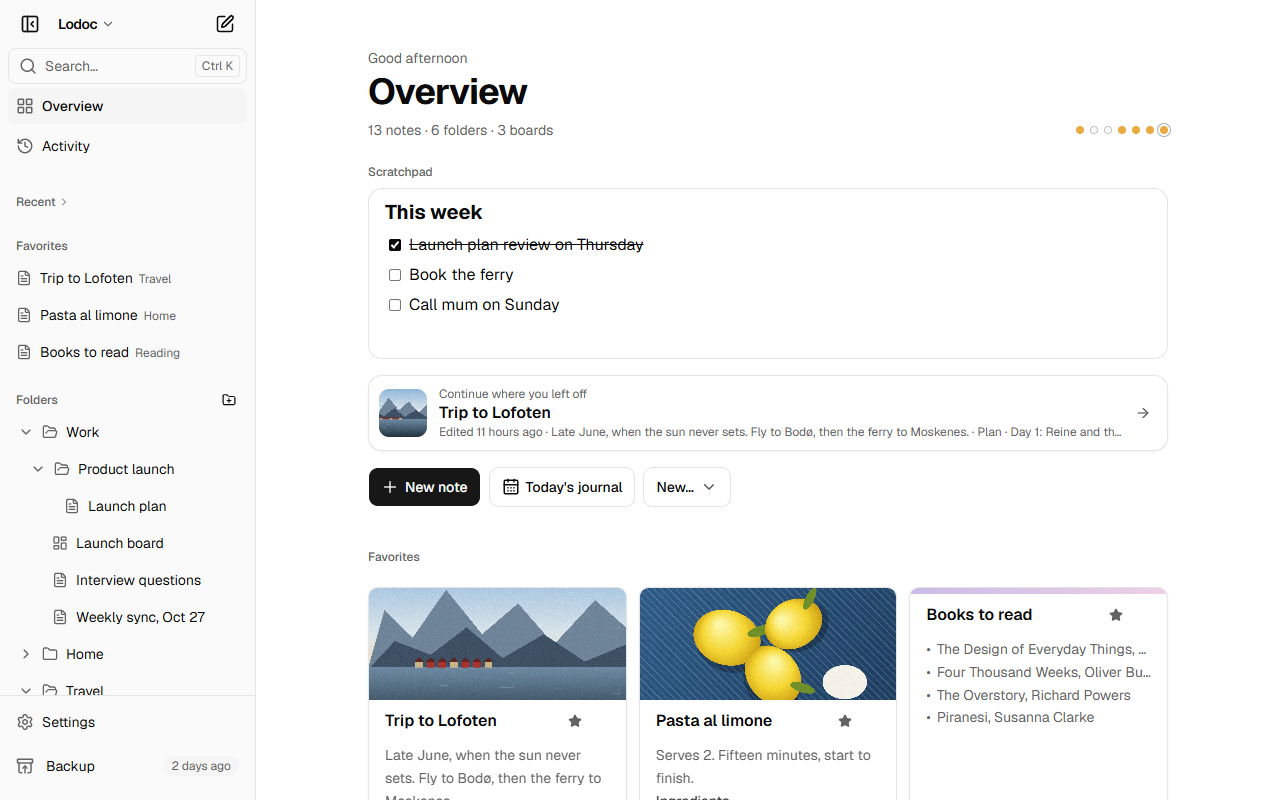
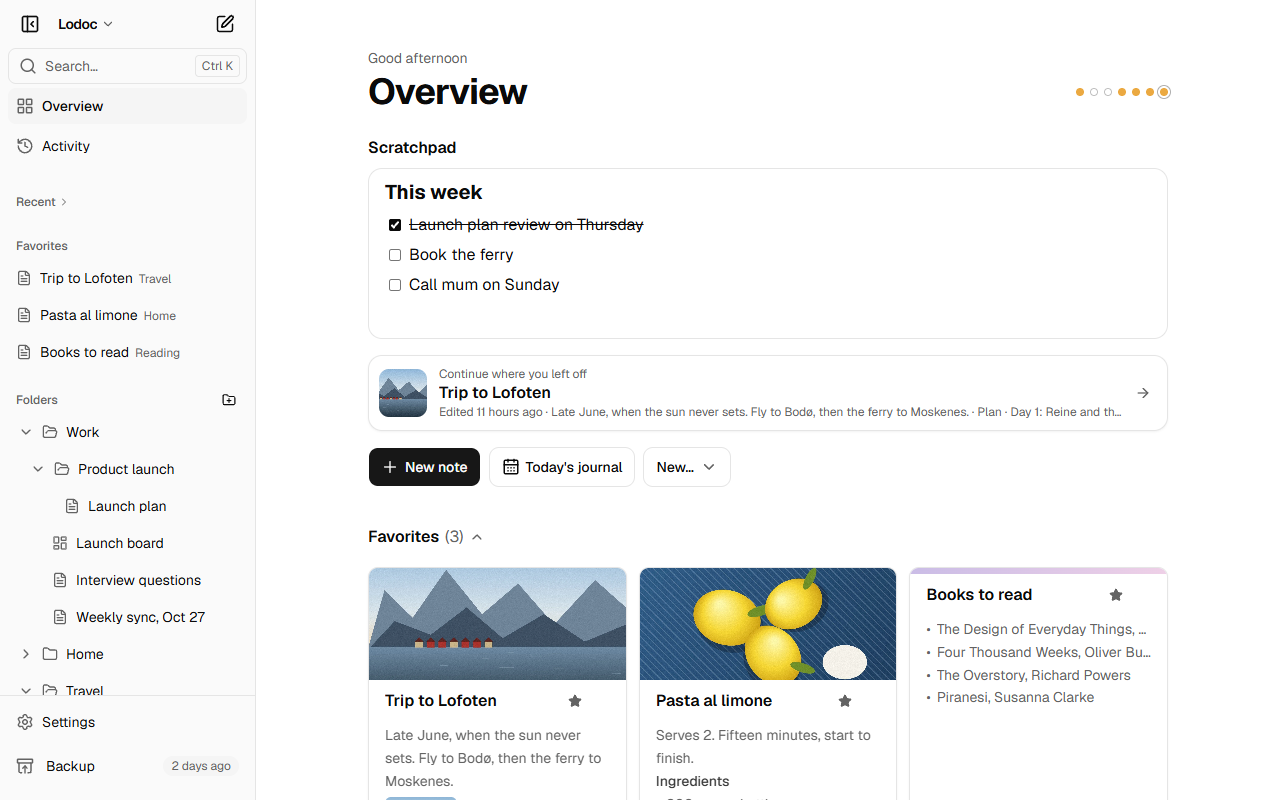
feat(overview): section titles with their count, as accordions
Card sections (overview, folder and tag pages) show their count, "Folders (5)", in a larger title (16 px
semibold, like the Scratchpad label) that opens and closes the section; closed ones stay closed in this browser
(useSectionOpen). The overview loses its line of totals (the writing days move beside the title), a folder page
keeps only its creation date.

diff --git a/src/components/folder/FolderView.tsx b/src/components/folder/FolderView.tsx
@@ -1,6 +1,7 @@
 import { EmptyArt } from '@/components/EmptyArt'
 import { useLiveQuery } from 'dexie-react-hooks'
 import {
+  ChevronDown,
   FileText,
   Folder as FolderIcon,
   FolderOpen,
@@ -12,7 +13,7 @@ import {
   Star,
   type LucideIcon,
 } from 'lucide-react'
-import { useEffect, useRef, useState, type ReactNode } from 'react'
+import { Children, useEffect, useId, useRef, useState, type ReactNode } from 'react'
 import { RowContextMenu, RowDropdownMenu, type MenuEntry } from '@/components/ItemMenu'
 import { RenameInput } from '@/components/sidebar/RenameInput'
 import { NewMenu } from '@/components/NewMenu'
@@ -30,6 +31,7 @@ import { NoteCardBody, NoteCardTop } from '@/components/note/NoteCardBody'
 import { CardFooter } from '@/components/note/NoteCardMeta'
 import { useNoteCardView } from '@/hooks/useNoteCardView'
 import { useNoteSort } from '@/hooks/useNoteSort'
+import { useSectionOpen } from '@/hooks/useSectionOpen'
 import { openNote } from '@/hooks/useRoute'
 import { sortFolders } from '@/lib/folder-tree'
 import { formatDate, formatDateTime, formatRelative, plural } from '@/lib/format'
@@ -72,10 +74,7 @@ export function FolderView({ folder }: { folder: Folder }) {
         <FolderTitle folder={folder} />
       </div>
       <p className="mt-2 text-sm text-muted-foreground">
-        {plural(allNotes.length, 'note')}
-        {allSubfolders.length > 0 && ` · ${plural(allSubfolders.length, 'folder')}`}
-        {allBoards.length > 0 && ` · ${plural(allBoards.length, 'board')}`}
-        {' · '}
+        {/* The counts are on the section titles below */}
         <span title={formatDateTime(folder.createdAt)}>Created {formatDate(folder.createdAt)}</span>
       </p>
 
@@ -113,7 +112,7 @@ export function FolderView({ folder }: { folder: Folder }) {
       )}
 
       {subfolders.length > 0 && (
-        <CardSection title="Folders">
+        <CardSection title="Folders" sectionKey="folder-folders">
           {subfolders.map((sub) => (
             <FolderCard key={sub.id} folder={sub} view={cardView} {...counts(sub.id)} />
           ))}
@@ -121,7 +120,7 @@ export function FolderView({ folder }: { folder: Folder }) {
       )}
 
       {folderBoards.length > 0 && (
-        <CardSection title="Boards">
+        <CardSection title="Boards" sectionKey="folder-boards">
           {folderBoards.map((board) => (
             <BoardCard key={board.id} board={board} />
           ))}
@@ -129,7 +128,7 @@ export function FolderView({ folder }: { folder: Folder }) {
       )}
 
       {folderNotes.length > 0 && (
-        <CardSection title="Notes" 
+        <CardSection title="Notes" sectionKey="folder-notes"
           action={
             <div className="flex items-center gap-2">
               <CardViewToggle value={cardView} onChange={setCardView} label="Card view" />
@@ -311,15 +310,47 @@ export function CardShell({
   )
 }
 
-export function CardSection({ title, action, children }: { title: string; action?: ReactNode; children: ReactNode }) {
+/**
+ * A titled group of cards with its count, "Folders (5)"; the title opens and closes it (remembered per `sectionKey`
+ * in this browser). The action (view and sort) shows while it is open.
+ */
+export function CardSection({
+  title,
+  sectionKey,
+  action,
+  children,
+}: {
+  title: string
+  sectionKey: string
+  action?: ReactNode
+  children: ReactNode
+}) {
+  const [open, setOpen] = useSectionOpen(sectionKey)
+  const id = useId()
+  const count = Children.toArray(children).length
   return (
     <section className="mt-8">
-      <div className="mb-3 flex h-9 items-center justify-between">
-        <h2 className="text-xs font-medium text-muted-foreground">{title}</h2>
-        {action}
+      <div className="mb-3 flex h-9 items-center justify-between gap-2">
+        <h2 className="text-base font-semibold">
+          <button
+            type="button"
+            aria-expanded={open}
+            aria-controls={id}
+            onClick={() => setOpen(!open)}
+            className="-ml-2 flex items-center gap-1.5 rounded-md px-2 py-1 hover:bg-accent pointer-coarse:py-2"
+          >
+            {title} <span className="font-normal text-muted-foreground tabular-nums">({count})</span>
+            <ChevronDown aria-hidden className={cn('size-4 text-muted-foreground transition-transform', open && 'rotate-180')} />
+          </button>
+        </h2>
+        {open && action}
       </div>
       {/* Two columns of smaller cards on phones, so more than one note fits on the screen */}
-      <div className="grid grid-cols-[repeat(auto-fill,minmax(14rem,1fr))] gap-3 max-sm:grid-cols-2 max-sm:gap-2">{children}</div>
+      {open && (
+        <div id={id} className="grid grid-cols-[repeat(auto-fill,minmax(14rem,1fr))] gap-3 max-sm:grid-cols-2 max-sm:gap-2">
+          {children}
+        </div>
+      )}
     </section>
   )
 }

diff --git a/src/components/home/HomeView.tsx b/src/components/home/HomeView.tsx
@@ -17,7 +17,7 @@ import { useNoteCardView } from '@/hooks/useNoteCardView'
 import { openNote } from '@/hooks/useRoute'
 import { sortFolders } from '@/lib/folder-tree'
 import { resolveCover } from '@/lib/cover'
-import { formatRelative, plural } from '@/lib/format'
+import { formatRelative } from '@/lib/format'
 import { openTodaysJournal } from '@/lib/journal'
 import { readLastNote } from '@/lib/last-note'
 
@@ -55,13 +55,9 @@ export function HomeView({ empty }: { empty: React.ReactNode }) {
       <p className="mb-1 text-sm text-muted-foreground" data-greeting>
         {hello}
       </p>
-      <h1 className="font-page text-4xl font-bold tracking-tight">Overview</h1>
-      <div className="mt-2 flex flex-wrap items-center justify-between gap-x-4 gap-y-2">
-        <p className="text-sm text-muted-foreground">
-          {[plural(notes.length, 'note'), folders.length > 0 && plural(folders.length, 'folder'), boards.length > 0 && plural(boards.length, 'board')]
-            .filter(Boolean)
-            .join(' · ')}
-        </p>
+      {/* The counts are on each section's title; the week's writing days sit beside the page title */}
+      <div className="flex flex-wrap items-center justify-between gap-x-4 gap-y-2">
+        <h1 className="font-page text-4xl font-bold tracking-tight">Overview</h1>
         <WritingDays notes={notes} />
       </div>
 
@@ -80,7 +76,7 @@ export function HomeView({ empty }: { empty: React.ReactNode }) {
       </div>
 
       {favorites.length + favoriteBoards.length > 0 && (
-        <CardSection title="Favorites">
+        <CardSection title="Favorites" sectionKey="overview-favorites">
           {favorites.map((note) => (
             <NoteCard key={note.id} note={note} view={cardView} />
           ))}
@@ -91,7 +87,7 @@ export function HomeView({ empty }: { empty: React.ReactNode }) {
       )}
 
       {recent.length > 0 && (
-        <CardSection title="Recently edited" action={toggle}>
+        <CardSection title="Recently edited" sectionKey="overview-recent" action={toggle}>
           {recent.map((note) => (
             <NoteCard key={note.id} note={note} view={cardView} />
           ))}
@@ -99,7 +95,7 @@ export function HomeView({ empty }: { empty: React.ReactNode }) {
       )}
 
       {topFolders.length > 0 && (
-        <CardSection title="Folders">
+        <CardSection title="Folders" sectionKey="overview-folders">
           {topFolders.map((folder) => (
             <FolderCard key={folder.id} folder={folder} view={cardView} {...counts(folder.id)} />
           ))}
@@ -107,7 +103,7 @@ export function HomeView({ empty }: { empty: React.ReactNode }) {
       )}
 
       {boards.length > 0 && (
-        <CardSection title="Boards">
+        <CardSection title="Boards" sectionKey="overview-boards">
           {sortBoards(boards).map((board) => (
             <BoardCard key={board.id} board={board} />
           ))}

diff --git a/src/hooks/useSectionOpen.ts b/src/hooks/useSectionOpen.ts
@@ -1,0 +1,24 @@
+import { useState } from 'react'
+
+const PREFIX = 'localnotes:section-closed:'
+
+/** Whether a card section (overview, folder, tag pages) is open; a closed one stays closed in this browser */
+export function useSectionOpen(key: string) {
+  const [open, setOpen] = useState(() => {
+    try {
+      return localStorage.getItem(PREFIX + key) !== '1'
+    } catch {
+      return true
+    }
+  })
+  const change = (next: boolean) => {
+    setOpen(next)
+    try {
+      if (next) localStorage.removeItem(PREFIX + key)
+      else localStorage.setItem(PREFIX + key, '1')
+    } catch {
+      // per-browser convenience only
+    }
+  }
+  return [open, change] as const
+}

diff --git a/src/components/tags/TagView.tsx b/src/components/tags/TagView.tsx
@@ -40,7 +40,7 @@ export function TagView({ tag }: { tag: string }) {
       {tagged.length === 0 ? (
         <p className="mt-10 text-sm text-muted-foreground">No note has this tag (any more).</p>
       ) : (
-        <CardSection title="Notes" action={<CardViewToggle value={cardView} onChange={setCardView} label="Card view" />}>
+        <CardSection title="Notes" sectionKey="tag-notes" action={<CardViewToggle value={cardView} onChange={setCardView} label="Card view" />}>
           {tagged.map((note) => (
             <NoteCard key={note.id} note={note} view={cardView} />
           ))}

diff --git a/src/components/home/OverviewPad.tsx b/src/components/home/OverviewPad.tsx
@@ -19,7 +19,7 @@ export function OverviewPad() {
   const note = useLiveQuery(() => (id ? db.notes.get(id) : undefined), [id])
   return (
     <section aria-labelledby="overview-pad-label" className="mt-6">
-      <h2 id="overview-pad-label" className="mb-2 text-xs font-medium text-muted-foreground">
+      <h2 id="overview-pad-label" className="mb-2 text-base font-semibold">
         Scratchpad
       </h2>
       <div className="min-h-14 rounded-xl border bg-card px-1 focus-within:border-control-border" data-overview-pad>

diff --git a/site/src/content/changelog/0.5.md b/site/src/content/changelog/0.5.md
@@ -65,6 +65,7 @@ summary: 'Settings in one place, high contrast and reduced motion, and a quieter
 - The tints in Settings show their names, so you can read them on a phone too.
 - **Randomize** and **Reset all appearance settings** sit together at the end of the Appearance tab, each with its Undo. Contrast and motion say what your system asks for right now.
 - Fewer buttons on the overview and folder pages: **New note** (and *Today's journal* on the overview) next to one **New…** menu for a folder, a board or a note from a template. The *Continue where you left off* line is slimmer, so the cards start higher up.
+- The sections of the overview, folders and tags have larger titles with their count, *Folders (5)*, and fold away with a click (Lodoc remembers which are closed). The line of totals under the page title is gone.
 - Dates are written out, *20 Oct 2026* and *Thursday, 29 October 2026*, instead of in numbers.
 - On touch screens, only the sidebar row of the page you're on shows its buttons, so the list stays calm; press and hold any row for its menu.
 - Titles in Serif are semibold and less tightly spaced.- Zoomed out on a board, the names of cards and frames stay readable, like place names on a map, so *fit all* on a phone shows which card is which.
